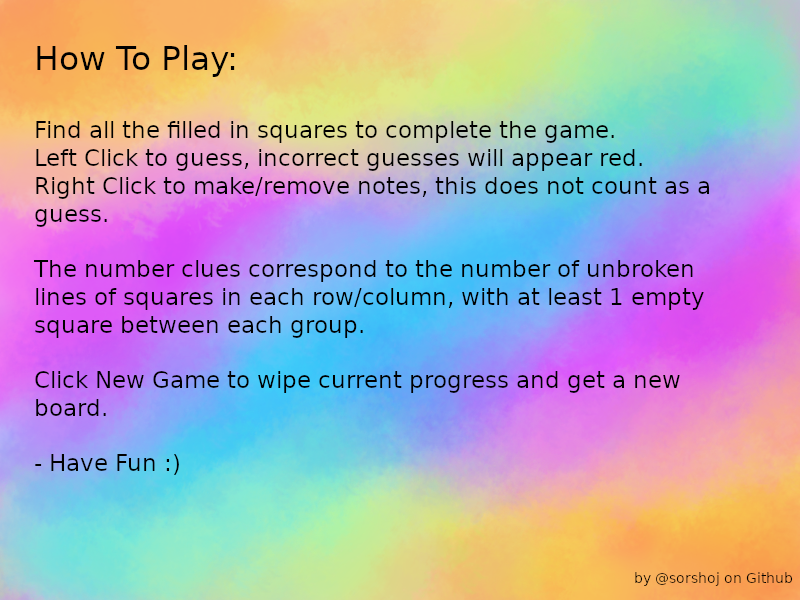
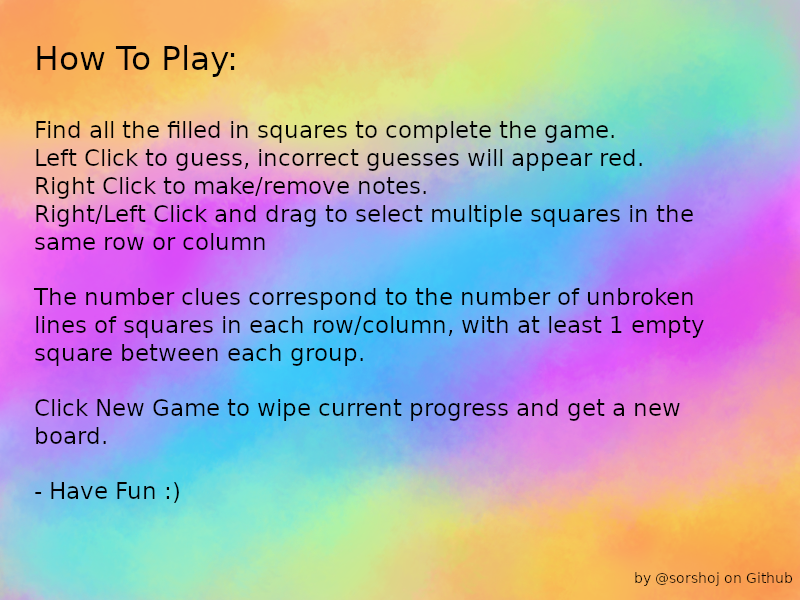
bug fix w/ auto grey. changed infoscreen img.

Changed region(s): [[0.0312, 0.3, 0.9062, 0.84]]

diff --git a/index.html b/index.html
@@ -74,6 +74,7 @@
                     tent.setData('index', i);
                     tent.setData('board', this.Board[i]);
                     tent.setData('found', 0);
+                    tent.setData('color', 0);
     
                     this.player_board[i] = tent;
                     start_x = (start_x + square_length) % mod_val;
@@ -85,7 +86,6 @@
 
 
                 // PLAYER INPUT
-                //this.input.on('pointerdown', this.player_input, this);
                 this.input.on('pointerdown', function(pointer, currentlyOver) {
                     
                     if (currentlyOver.length == 0) {
@@ -124,7 +124,6 @@
                         }
                         // or the same column
                         else if (lastSquare%this.y == currSquare%this.y) {
-                            //console.log(lastSquare, currSquare);
 
                             let squares = []
                             for (let i = Math.min(lastSquare, currSquare); i <= Math.max(lastSquare, currSquare); i+=this.x){
@@ -139,38 +138,28 @@
                         }
 
                     }
-
-                    let a = currentlyOver[0].getData('found');
-                    let b = currentlyOver[0].getData('board');
-                    console.log('found: ' + a + '  board: ' + b);
-
                 }, this);
 
-                this.input.on('pointerover', function(pointer, currentlyOver){
-                    currentlyOver[0].setTint(0xfff691);
 
+
+                // Highlight game squares that are moused over
+                this.input.on('pointerover', function(pointer, currentlyOver){
+                    // check if object is game board square
+                    if (currentlyOver[0].getData('index')){
+                        currentlyOver[0].setTint(0xfff691);
+                    }
+                    return;
                 });
 
+                // Resets the previous color of the square, if any
                 this.input.on('pointerout', function(pointer, currentlyOver){
-                    //currentlyOver[0].setTint(0xfff691);
-                    let f = currentlyOver[0].getData('found');
-                    let b = currentlyOver[0].getData('board');
-                    if (f == 2) {
-                        //grey
-                        currentlyOver[0].setTint(0x828282);
-                    } else if (f==1) {
-                        if (b == 0) {
-                            //red
-                            currentlyOver[0].setTint(0xff0000);
-
-                        } else {
-                            //green 
-                            currentlyOver[0].setTint(0x05fa46);
-                        }
- 
-                    } else {
+                    let color = currentlyOver[0].getData('color');
+                    if (color == 0) {
                         currentlyOver[0].clearTint();
+                    } else if (color) {
+                        currentlyOver[0].setTint(color);
                     }
+                    return;
                 }, this);
 
 
@@ -227,6 +216,7 @@
                                 if (this.player_board[i*this.x+j].getData('found') == 0){
                                     this.player_board[i*this.x+j].setTint(0x828282);
                                     this.player_board[i*this.x+j].setData('found', 2);
+                                    this.player_board[i*this.x+j].setData('color', 0x828282);
                                 }
                             }
                         }
@@ -249,7 +239,8 @@
                             for (let i = 0; i < this.x; i++) {
                                 if (this.player_board[i*this.x+j].getData('found') == 0){
                                     this.player_board[i*this.x+j].setTint(0x828282);
-                                    this.player_board[i*this.x+j].setData('found', 2);                                    
+                                    this.player_board[i*this.x+j].setData('found', 2);
+                                    this.player_board[i*this.x+j].setData('color', 0x828282);                                    
                                 }
                             }
                         }
@@ -292,8 +283,6 @@
                         }
                     }
 
-                    //console.log(this.registry.get('board_green'))
-
                     if (this.registry.get('board_green') == this.board_green) {
                         // add found green and red to registry
                         //this.registry.set('board_green', this.board_green);
@@ -321,7 +310,9 @@
 
             /**
              * Helper function. Sets all given squares to appropriate color. 
-             * Changes 'found' data of appropriate squares
+             * Changes 'found' data of selected squares.
+             * @TODO might be able to eliminate found = 2
+             * Changes 'color' data of selected squares
              * @param {array} squares - array of indexes
              * @param {boolean} isGrey - true: set to grey, false: set to red|green
              */
@@ -335,19 +326,23 @@
                             if (currSquare.getData('found') == 2) {
                                 currSquare.clearTint();
                                 currSquare.setData('found', 0);
+                                currSquare.setData('color', 0);
                             } else {
                                 // grey
                                 currSquare.setTint(0x828282);
                                 currSquare.setData('found', 2);
+                                currSquare.setData('color', 0x828282);
                             }
                         } else {
                             if (currSquare.getData('board') == 1) {
                                 // green
                                 currSquare.setTint(0x05fa46);
+                                currSquare.setData('color', 0x05fa46);
                                 this.registry.set('board_green', this.registry.get('board_green')+1);
                             } else {
                                 // red
                                 currSquare.setTint(0xff0000);
+                                currSquare.setData('color', 0xff0000);
                                 this.registry.set('player_red', this.registry.get('player_red')+1);
                             }
                             currSquare.setData('found', 1);

diff --git a/README.md b/README.md
@@ -27,10 +27,13 @@ Static Site Here: https://picross-jzara.ondigitalocean.app/
 
 ### Open Issues
 - hitting the preload() whenever doing a new game may be reloading all assets into memory + still holding previous arrays, clues, all vars, etc. Could cause memory issues down the line --> not an issue ATM.
-- right clicking greyed squares that were automatically filled does not ungrey them - unintentional behaviour
+- right clicking greyed squares that were automatically filled does not ungrey them (unintentional behaviour)
+
 
 
 ### Completed
+- auto grey out squares function not working COMPLETED [3/20]
+- guidelines button color disappears COMPLETED [3/20]
 - implemented drag select. Can now select multiple squares in the same row or column w/ left or right click [3/?]
 - make it pretty
 - fix y clues for large boards. clues are unreadable at 10x10 COMPLETED [1/24]
@@ -42,4 +45,9 @@ Static Site Here: https://picross-jzara.ondigitalocean.app/
 
 
 ### Reference
-- Blue Color on Buttons is 0x1023ED
+- Blue Color on Guidelines is 0x1023ED
+- Green Color on Buttons is 0x05fa46
+- Red Color on Buttons is 0xff0000
+- Grey Color is 0x828282
+
+
